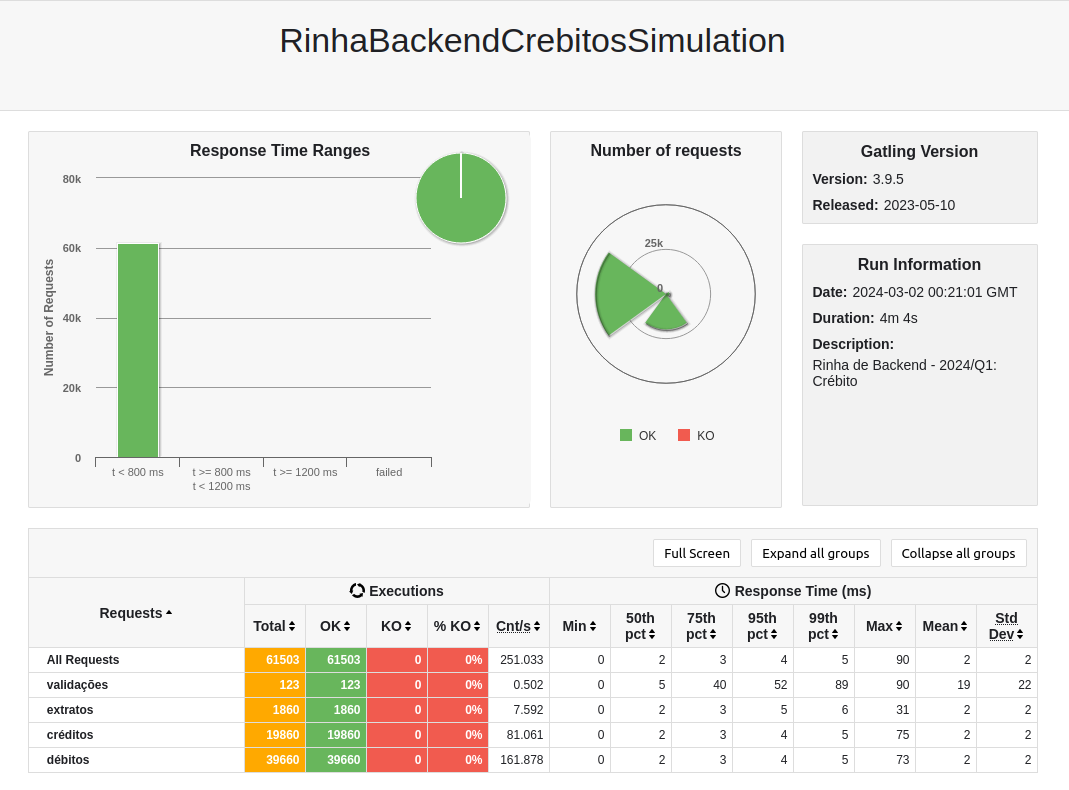
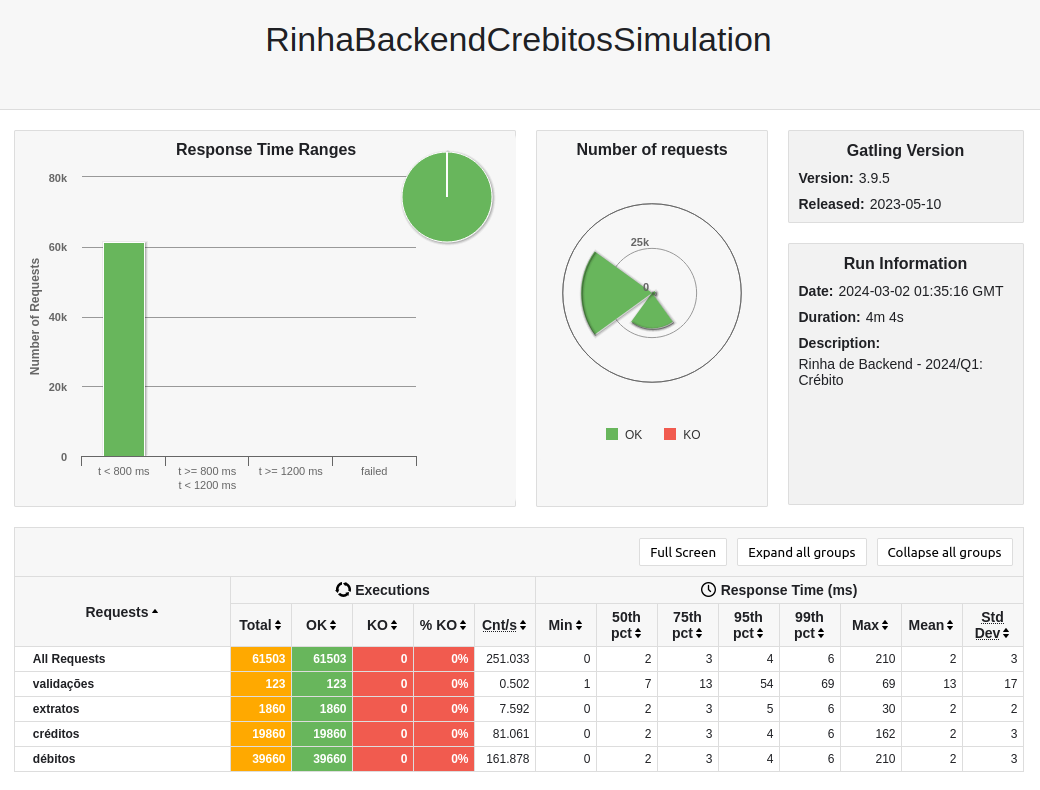
refac

diff --git a/src/routes/clientes/[id]/extrato.ts b/src/routes/clientes/[id]/extrato.ts
@@ -11,18 +11,15 @@ export async function get(id: Path<number>, errors: HttpErrors) {
     throw errors.notFound();
   }
 
-  const customerBalance = await sql<{ balance: number }[]>
-    `SELECT balance FROM customers WHERE id = ${id}`;
-  if (!customerBalance.length) {
-    throw errors.unprocessableEntity();
-  }
-
-  const customerTransactions = await sql<Transaction[]>
-    `SELECT value, "type", "description", created_at
-    FROM transactions
-    WHERE customer_id = ${id}
-    ORDER BY created_at DESC
-    LIMIT 10`;
+  const [customerBalance, transactions] = await Promise.all([
+    sql<{ balance: number }[]>`SELECT balance FROM customers WHERE id = ${id}`,
+    sql<Transaction[]>
+      `SELECT value, "type", "description", created_at
+      FROM transactions
+      WHERE customer_id = ${id}
+      ORDER BY created_at DESC
+      LIMIT 10`,
+  ]);
 
   return {
     saldo: {
@@ -30,7 +27,7 @@ export async function get(id: Path<number>, errors: HttpErrors) {
       data_extrato: new Date(),
       limite: customer.limit,
     },
-    ultimas_transacoes: customerTransactions.map(({ value, type, description, created_at }) =>
+    ultimas_transacoes: transactions.map(({ value, type, description, created_at }) =>
       ({ valor: value, tipo: type, descricao: description, realizada_em: created_at }))
   };
 }
